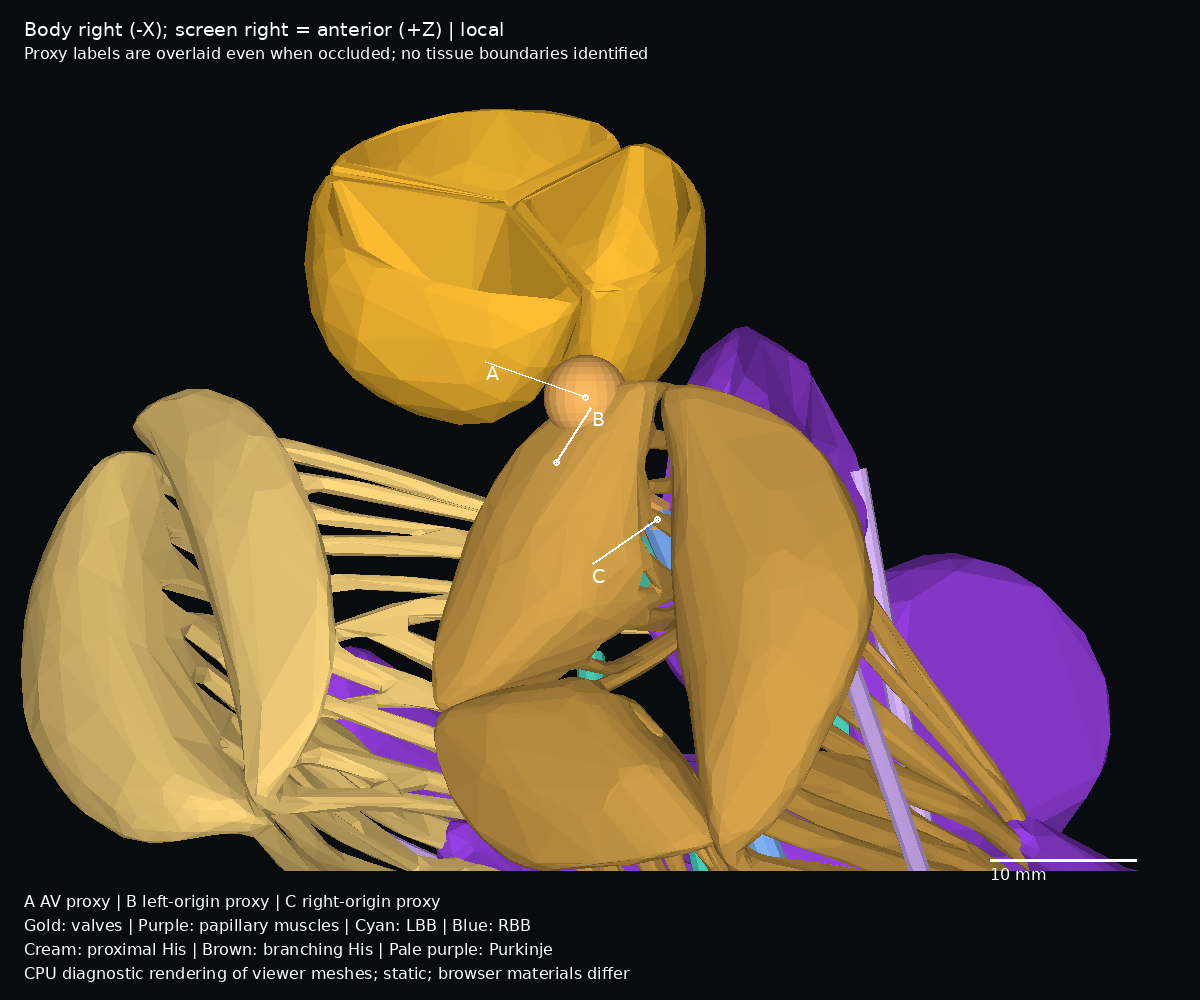
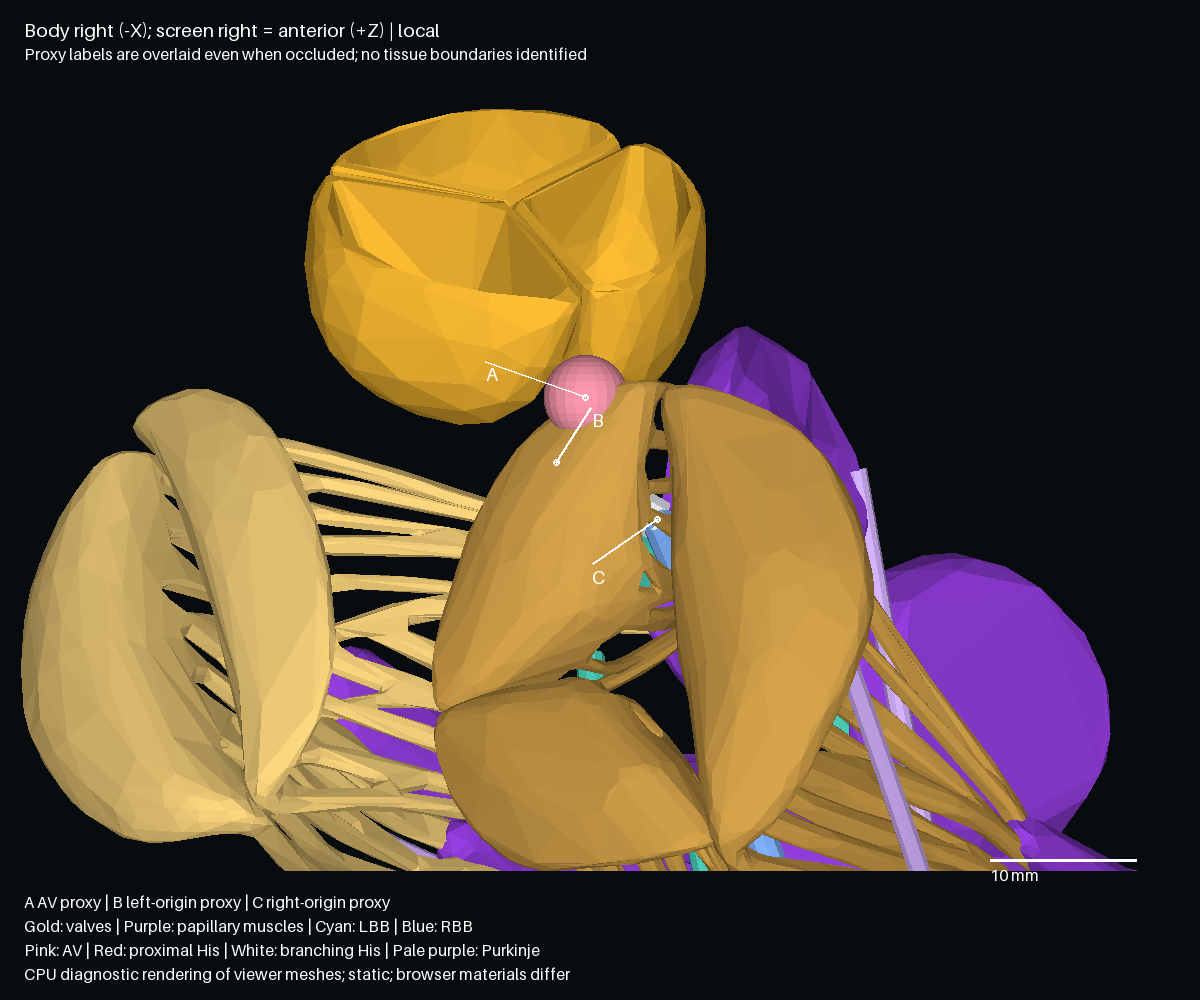
Address Figure 6A comparison and evidence review
Compare the licensed panel A with the anterior diagnostic view and report agreement, differences, and unidentifiable tissue boundaries separately. Distinguish reused interval values from the additional measurements and state the conditional leaflet-distance lower bound. Keep the Issue #17 scope decision open until the available landmarks can be assessed separately.

Separate His and valve colors, document exact Python dependencies, and require a fresh render directory. All eight renders and the measurement JSON reproduced in a fresh virtual environment. The existing-directory negative check passed. Build and 66 unit tests passed, and the viewer source and HTML match main. Local Chromium was blocked at launch by socket permissions.

diff --git a/scripts/render-conduction.py b/scripts/render-conduction.py
@@ -1,23 +1,41 @@
 """CPU triangle rasterizer (numpy, Pillow); no browser/GPU required.
-Usage: python scripts/render-conduction.py /tmp/conduction.json <output-directory>
+Usage: python scripts/render-conduction.py <input.json> <new-output-directory> <record-date>
 Preserves viewer mesh geometry; diagnostic colors and face lighting.
 """
-import json, sys
+import argparse
+import json
+from datetime import date
 from pathlib import Path
+
 import numpy as np
 from PIL import Image, ImageDraw, ImageFont
-report=json.loads(Path(sys.argv[1]).read_text())
-out=Path(sys.argv[2]);out.mkdir(parents=True,exist_ok=True)
-colors={'aov':(255,191,51),'tv':(217,166,76),'mv':(255,217,128),'pm':(153,64,230),'av':(255,189,99),'his':(255,222,145),'bhis':(232,166,92),'rbb':(128,179,255),'lbb':(79,219,196),'purkinje':(214,179,255)}
+parser = argparse.ArgumentParser(description="Render diagnostic views into a new directory.")
+parser.add_argument("input", type=Path)
+parser.add_argument("output", type=Path, help="Must not already exist")
+parser.add_argument("record_date", type=date.fromisoformat, metavar="YYYY-MM-DD")
+args = parser.parse_args()
+report = json.loads(args.input.read_text(encoding="utf-8"))
+out = args.output
+try:
+    out.mkdir()
+except FileExistsError:
+    parser.error(f"Output already exists: {out}. Choose a new directory.")
+
+colors = {
+    'aov': (255, 191, 51), 'tv': (217, 166, 76), 'mv': (255, 217, 128),
+    'pm': (153, 64, 230), 'av': (255, 155, 177), 'his': (255, 106, 130),
+    'bhis': (242, 245, 250), 'rbb': (128, 179, 255), 'lbb': (79, 219, 196),
+    'purkinje': (214, 179, 255),
+}
 meshes=[(m['id'],np.array(m['positions']).reshape(-1,3),np.array(m['indices']).reshape(-1,3)) for m in report['meshes']]
 allpoints=np.concatenate([p for _,p,_ in meshes]);center=(allpoints.min(0)+allpoints.max(0))/2
 local=np.mean(list(report['anchors'].values()),axis=0)
-font=ImageFont.truetype('/usr/share/fonts/truetype/dejavu/DejaVuSans.ttf',19)
-small=ImageFont.truetype('/usr/share/fonts/truetype/dejavu/DejaVuSans.ttf',16)
+font = ImageFont.load_default(size=19)
+small = ImageFont.load_default(size=16)
 views={'front':([1,0,0],[0,1,0],[0,0,1],'Anterior (+Z); screen right = body left (+X)'), 'right':([0,0,1],[0,1,0],[-1,0,0],'Body right (-X); screen right = anterior (+Z)'), 'top':([1,0,0],[0,0,-1],[0,1,0],'Superior (+Y); screen right = body left (+X)')}
 W,H=1200,1000
 
-def render(name,axes,close,hide_valves=False):
+def render(name, axes, close, hidden=(), suffix='', note=''):
     right,up,toward,caption=axes;basis=np.array([right,up,toward]).T
     focus=local if close else center;scale=26 if close else 70;px=760/(2*scale)
     image=np.full((H,W,3),[9,12,15],dtype=np.uint8);depth=np.full((H,W),-np.inf)
@@ -25,7 +43,8 @@ def render(name,axes,close,hide_valves=False):
         p=(points-focus)@basis
         return np.column_stack((600+p[:,0]*px,460-p[:,1]*px,p[:,2]))
     for id,vertices,indices in meshes:
-        if hide_valves and id in ['aov','mv','tv','pm']:continue
+        if id in hidden:
+            continue
         projected=project(vertices)
         for idx in indices:
             a,b,c=projected[idx];x0=max(0,int(np.floor(min(a[0],b[0],c[0]))));x1=min(W-1,int(np.ceil(max(a[0],b[0],c[0]))))
@@ -42,22 +61,26 @@ def render(name,axes,close,hide_valves=False):
             shade=.4+.6*abs(np.dot(normal,toward))/max(np.linalg.norm(normal),1e-12)
             image[y0:y1+1,x0:x1+1][mask]=np.array(colors[id])*shade;target[mask]=z[mask]
     im=Image.fromarray(image);d=ImageDraw.Draw(im)
-    d.text((24,18),caption+(' | local' if close else ' | full'),font=font,fill='white')
+    d.text((24,18),caption + (' | local' if close else ' | full') + note,font=font,fill='white')
     d.text((24,44),'Proxy labels are overlaid even when occluded; no tissue boundaries identified',font=small,fill='white')
     offsets={'A':(-100,-35),'B':(35,-55),'C':(-65,45)}
     for key,p in report['anchors'].items():
         x,y,_=project(np.array([p]))[0];dx,dy=offsets[key]
         d.line((x,y,x+dx,y+dy),fill='white',width=2);d.ellipse((x-3,y-3,x+3,y+3),outline='white',width=2)
         d.text((x+dx,y+dy),key,font=font,fill='white')
-    for i,line in enumerate(['A AV proxy | B left-origin proxy | C right-origin proxy','Gold: valves | Purple: papillary muscles | Cyan: LBB | Blue: RBB','Cream: proximal His | Brown: branching His | Pale purple: Purkinje','CPU diagnostic rendering of viewer meshes; static; browser materials differ']):
+    for i,line in enumerate(['A AV proxy | B left-origin proxy | C right-origin proxy','Gold: valves | Purple: papillary muscles | Cyan: LBB | Blue: RBB','Pink: AV | Red: proximal His | White: branching His | Pale purple: Purkinje','CPU diagnostic rendering of viewer meshes; static; browser materials differ']):
         d.text((24,892+i*24),line,font=small,fill='white')
     d.line((990,860,990+10*px,860),fill='white',width=3);d.text((990,865),'10 mm',font=small,fill='white')
-    suffix='-paths' if hide_valves else '-local' if close else ''
-    im.save(out/f'conduction-{name}{suffix}-2026-11-08.png')
-for name,axes in views.items():
-    for close in [False,True]:render(name,axes,close)
-render('front',views['front'],True,True)
+    im.save(out / f'conduction-{name}{suffix}-{args.record_date}.png')
+
+for name, axes in views.items():
+    render(name, axes, False)
+    render(name, axes, True, suffix='-local')
+render('front', views['front'], True, hidden=('aov', 'tv', 'mv', 'pm'),
+       suffix='-paths', note=' | valves and papillary muscles hidden')
+render('front', views['front'], False, hidden=('pm',),
+       suffix='-valves', note=' | papillary muscles hidden')
 report.pop('meshes');report['renderer']='CPU barycentric rasterizer; orthographic depth buffer; double-sided face lighting; diagnostic colors'
 report['views']={name:dict(zip(['screenRight','screenUp','cameraDirection','caption'],axes)) for name,axes in views.items()}
 report['framing']={'size':[W,H],'fullCenter':center.tolist(),'localCenter':local.tolist(),'pixelsPerMm':{'full':760/140,'local':760/52}}
-(out/'conduction-figure6a-2026-11-08.json').write_text(json.dumps(report,indent=2)+'\n')
+(out / f'conduction-figure6a-{args.record_date}.json').write_text(json.dumps(report, indent=2) + '\n', encoding='utf-8')

diff --git a/README.md b/README.md
@@ -176,7 +176,7 @@ Kawashima・Sato（2021）の測定終点は右脚起始で、モデルの左右
 今回確認したのは論文の画像と、コードおよび生成データの数値であり、現行モデルの見え方や解剖学的な妥当性は未確認。
 Kawashima・Sato（2021）の出版社本文も取得できなかった。
 追記：対応表の「前後・上下の向きは資料の文章と逆」という判定を訂正した。Chen §3.1は前下方への進行を記述しており、モデルの下向きまで逆とするのは誤りだった。上下の記述が異なる資料を一括せず、部位と対象区間ごとに比較する。
-後続確認（2026-11-08、main `876759d`）：[図6Aと現行形状の描画比較](docs/references/conduction-figure6a-validation-2026-11-08.md)を実施した。前面、身体の右側、上面の全体と拡大、および遮蔽物を外した局所像の7枚を目視した。ローカルブラウザーは起動できず、同じ頂点と三角形を使ったCPUの診断用描画であり、通常画面の確認とは区別する。表示上の房室結節→左脚側の目印→右脚側の目印の接続は確認したが、組織上の房室結節の末端、貫通部と分岐部の境界は対応づけられなかった。座標は維持する。次はStephenson図3とChen補足図S6A–Dの境界の読み取り。Issue #17の組織位置の定量照合は未完了のままとする。
+後続確認（2026-11-08〜09、対象 main `876759d`）：[図6Aと現行形状の描画比較](docs/references/conduction-figure6a-validation-2026-11-08.md)に、三弁と左右脚の一致点、右脚が向かう乳頭筋の違い、判定できない組織境界を記録した。診断画像は配布形状と同じ頂点・三角形からCPUで描画した。膜性中隔の下縁などの目印が元データにないため、追加の文献画像だけでは現行座標を定量照合できない。Issue #17の組織位置の定量照合は未完了。
 
 ### 刺激伝導系モデルの修正（2026-11-08、PR #23）
 
